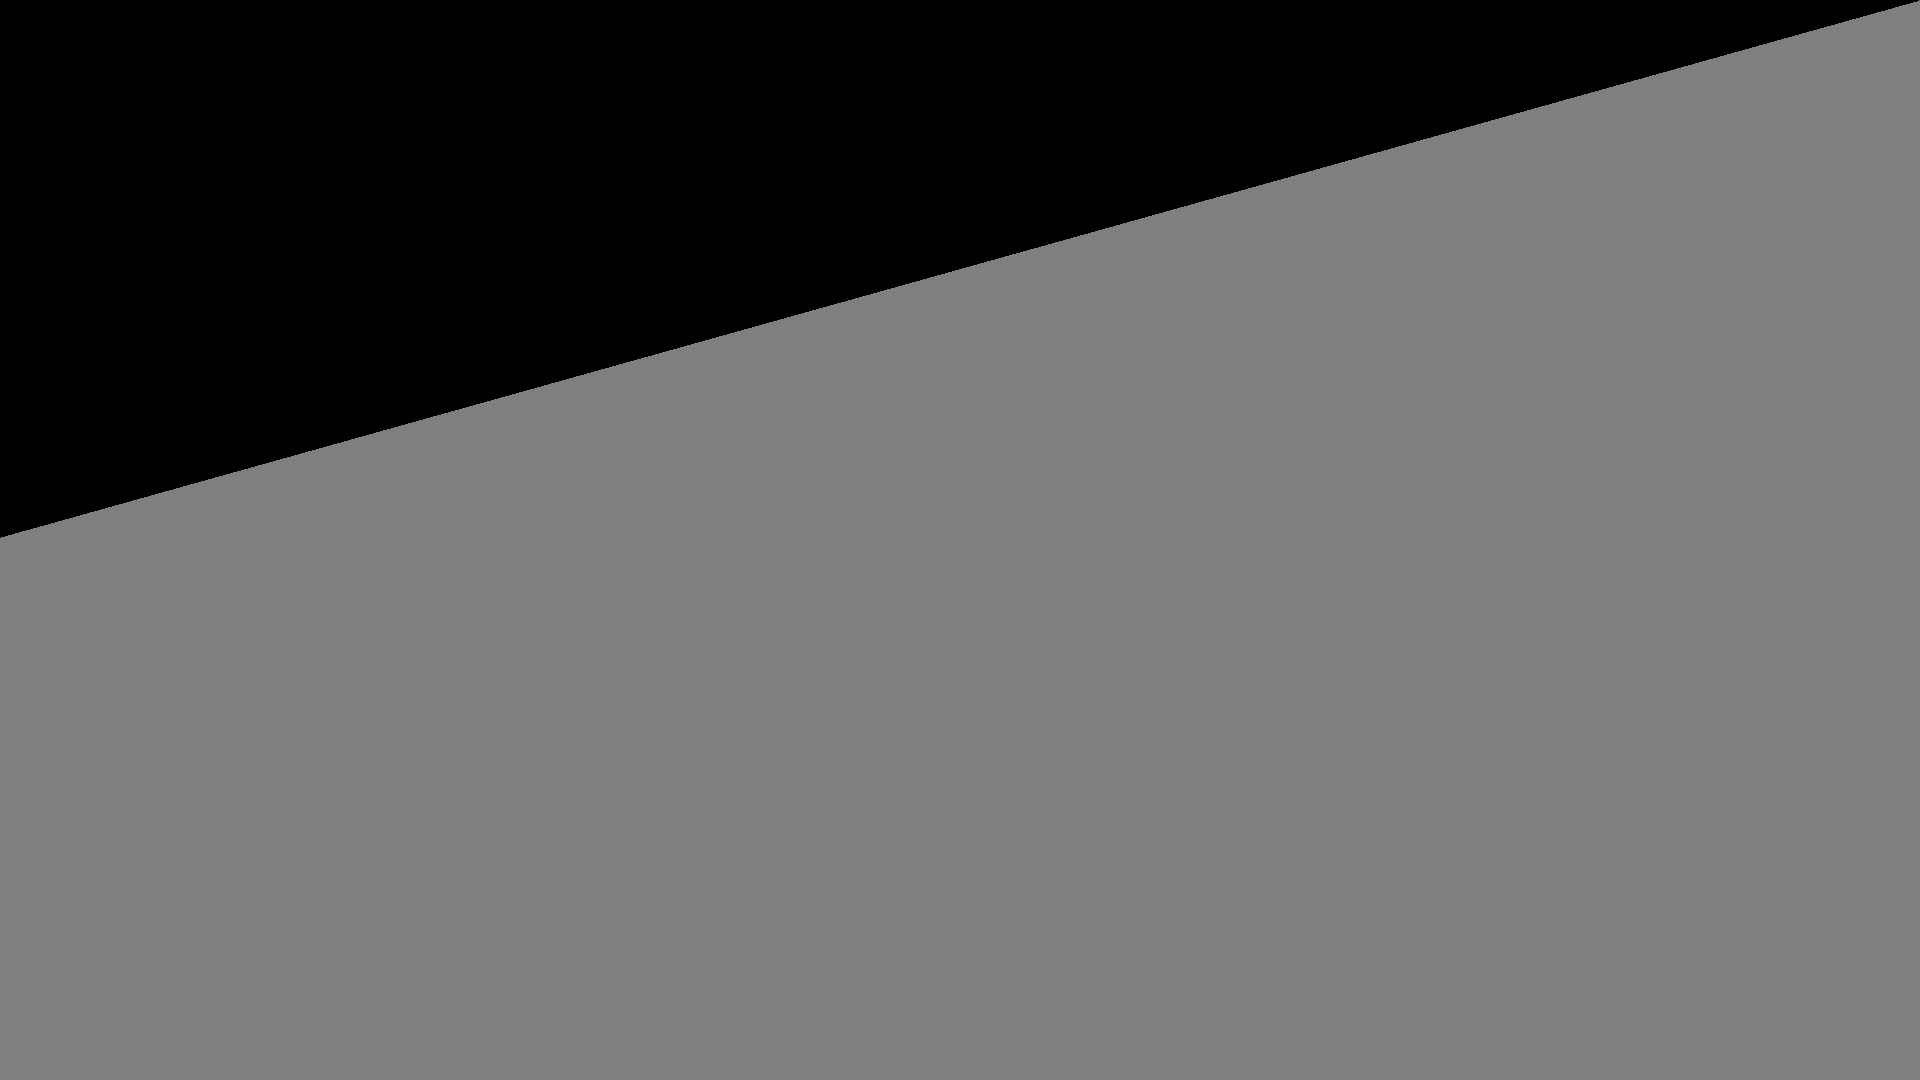
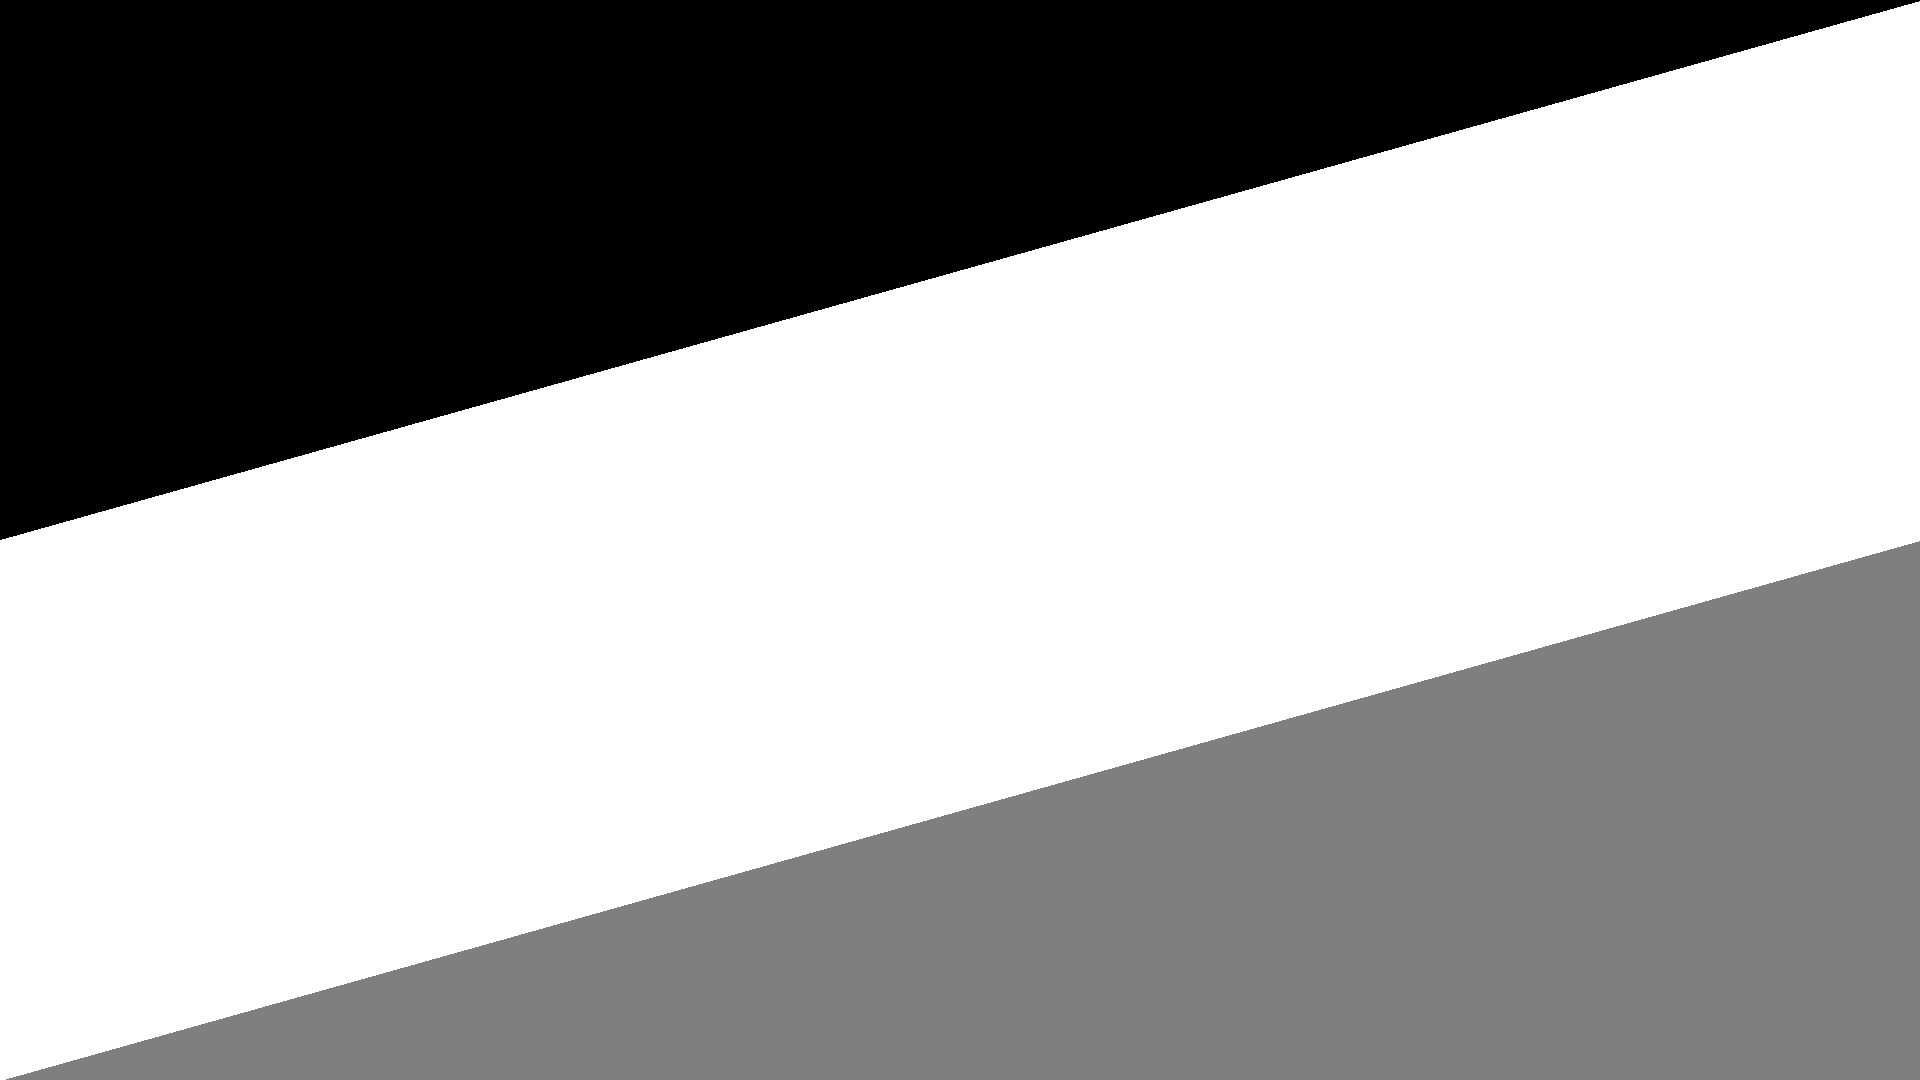
background change

diff --git a/styles.css b/styles.css
@@ -1,6 +1,4 @@
 * {
-    /* font-family: monospace;
-    font-size: large; */
     --themeColor: rgb(227, 32, 100);
     --fontColor: white;
     scroll-behavior: smooth;
@@ -9,10 +7,11 @@
         Roboto, Oxygen, Ubuntu, Cantarell, "Open Sans", "Helvetica Neue",
         sans-serif; */
     font-family: monospace;
+    font-size: 1.1rem;
 }
 
 *:not(:hover) {
-    transition: translate, color, 200ms;
+    transition: color, 200ms;
 }
 header {
     position: fixed;
@@ -23,7 +22,7 @@ header {
     color: var(--fontColor);
     backdrop-filter: blur(2px);
     background-image: linear-gradient(to bottom, black, rgba(255, 255, 255, 0));
-    z-index: 10;
+    z-index: 15;
 }
 
 body {
@@ -31,7 +30,7 @@ body {
     padding: 0;
     font-size: 1.1rem;
     overflow-x: hidden;
-    background-repeat: repeat;
+    /* background-repeat: repeat; */
 }
 
 header div {
@@ -73,7 +72,7 @@ header div:hover,
 
 .background {
     position: fixed;
-    height: 100%;
+    height: 100lvh;
     width: 100%;
     z-index: -1;
     object-fit: cover;
@@ -118,14 +117,14 @@ header div:hover,
     cursor: pointer;
 }
 .side0 {
-    padding-bottom: 0.7rem;
+    padding-bottom: 10px;
 }
 .side1,
 .side2 {
-    padding: 0.7rem 0rem;
+    padding: 5px 0rem;
 }
 .side3 {
-    padding-top: 0.7rem;
+    padding-top: 10px;
 }
 .sidebar div:hover {
     color: var(--themeColor);
@@ -164,24 +163,13 @@ header div:hover,
 .section2 {
     background-image: url("./plugs/part2.png");
     background-size: cover;
+    backdrop-filter: blur(16px);
 }
 .section3 {
     background-image: url("./plugs/part3.png");
-    backdrop-filter: blur(1rem);
-
+    backdrop-filter: blur(16px);
     background-size: cover;
 }
-/* .section0 img,
-.section1 img,
-.section2 img,
-.section3 img {
-    height: 100%;
-    object-fit: cover;
-} */
-
-/* .section3 {
-  background-color: azure;
-} */
 
 .hidden {
     display: none;
@@ -189,11 +177,11 @@ header div:hover,
 .backdrop {
     position: fixed;
     top: 0;
-    height: 100%;
+    height: 100lvh;
     width: 100vw;
     background-color: rgba(57, 57, 58, 0.409);
     backdrop-filter: blur(5px);
-    z-index: 7;
+    z-index: 10;
 }
 
 .contact {
@@ -209,7 +197,7 @@ header div:hover,
     right: 0;
     box-shadow: 5px 5px 5px rgb(43, 42, 42);
     border-radius: 15px;
-    z-index: 10;
+    z-index: 11;
     padding-top: 100px;
 }
 .contactClose {
@@ -292,49 +280,50 @@ header div:hover,
 
 /* project */
 
-.section1 {
-    padding-bottom: 5rem;
-}
 .projectPlane {
     margin: auto auto;
     padding: 10rem 0;
     display: grid;
-    width: fit-content;
-    grid-template-columns: 40rem 40rem;
-    /* grid-template-rows: 22rem; */
+    width: 60%;
+    grid-template-columns: 50% 50%;
 }
-.projectPlane * {
-    height: 100%;
+/* .projectPlane div {
+    border: 1px solid white;
+} */
+.projectPlane img {
     width: 100%;
-    object-fit: fill;
-    cursor: zoom-in;
-    display: flex;
-    text-decoration: none;
-    justify-content: center;
-    align-items: center;
-    color: rgba(0, 0, 0, 0);
-    border-radius: 7px;
+    height: inherit;
+    border-radius: 3px;
 }
 
 .projectPlane a {
     position: absolute;
-    width: 40rem;
-    height: 22rem;
-}
-.projectPlane *:hover {
-    transform: scale(1.2);
-    font-size: 1.7rem;
-    color: white;
-    backdrop-filter: blur(2px);
-    transition: width, font-size, backdrop-filter, color, 200ms;
-    z-index: 5;
-}
-#blackText:hover {
-    color: black;
+    top: 0%;
+    text-align: center;
+    width: 100%;
+    height: 100%;
+    font-size: 0rem;
+    text-decoration: none;
+    color: var(--themeColor);
+    z-index: 1;
 }
 
+.projectPlane div:hover {
+    transform: scale(1.2);
+    color: white;
+    transition: font-size, backdrop-filter, color, 200ms;
+}
+.projectPlane a:hover {
+    backdrop-filter: blur(2px);
+    font-size: 2rem;
+    transition: all 200ms;
+}
+/* #blackText:hover {
+    color: black;
+} */
+
 .skills {
-    /* padding-top: 400px; */
+    padding-top: 7rem;
     width: 80%;
     margin: auto auto;
     display: flex;
@@ -342,24 +331,17 @@ header div:hover,
     flex-wrap: wrap;
 }
 .skills div {
-    color: rgb(0, 0, 0);
-    margin: 2rem;
-    text-align: center;
-    background-image: linear-gradient(
-        to right,
-        var(--fontColor),
-        rgb(0, 217, 255)
-    );
-    padding: 1rem 1rem;
+    color: var(--themeColor);
+    padding: 1rem 2rem;
     border: 1px solid rgba(255, 255, 255, 0.619);
-    width: 7rem;
-    height: 1.5rem;
+    margin: 1rem;
     cursor: default;
+    transition: border, color, 200ms;
 }
 .skills div:hover {
-    box-shadow: 10px 10px rgba(255, 255, 255, 0.44);
     border: 1px solid white;
-    transition: all 0.2s;
+    background-color: var(--themeColor);
+    color: white;
 }
 
 .section3 {
@@ -384,17 +366,8 @@ header div:hover,
     html {
         font-size: 1.7rem;
     }
-    .section0,
-    .section1,
-    .section2,
-    .section3 {
-        min-height: 1500px;
-    }
     .projectPlane {
-        grid-template-columns: 25rem;
-    }
-    .projectPlane a {
-        width: 25rem;
-        height: 12rem;
+        width: 60%;
+        grid-template-columns: 100%;
     }
 }

diff --git a/script.js b/script.js
@@ -123,7 +123,7 @@ const projectList = [
     {
         name: "type0",
         pic: "./plugs/type0.png",
-        link: "https://heal333.github.io/foodie/",
+        link: "https://heal333.github.io/type0/",
         desc: "",
     },
     {

diff --git a/plugs/scripts/back.py b/plugs/scripts/back.py
@@ -1,0 +1,17 @@
+#python script for generating background image
+
+
+from PIL import Image,ImageDraw
+
+png = Image.new("RGBA",(1920,1080),(0,0,0,0))
+
+draw = ImageDraw.Draw(png)
+offset = 1
+for i in range(0,900):
+    draw.line((0,1080+offset,1920,540+offset),(127,127,127,255))
+    draw.line((0,540-offset,1920,0),(0,0,0,255))
+    offset+=1
+
+
+
+png.save("back.png")
